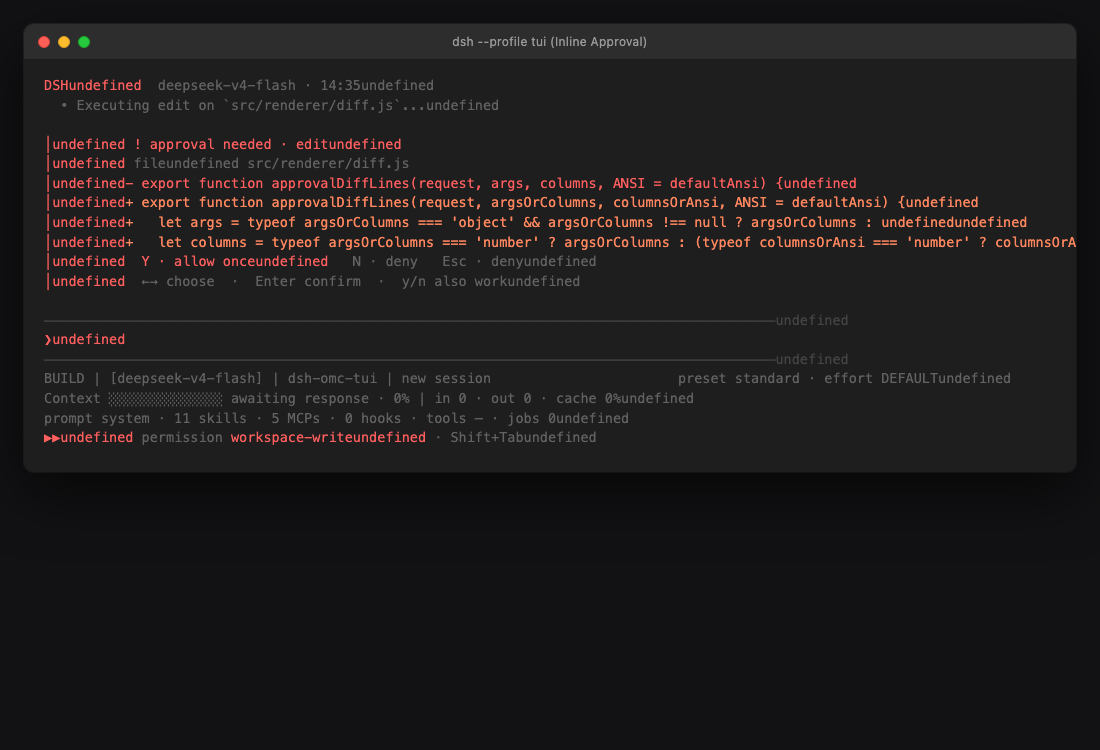
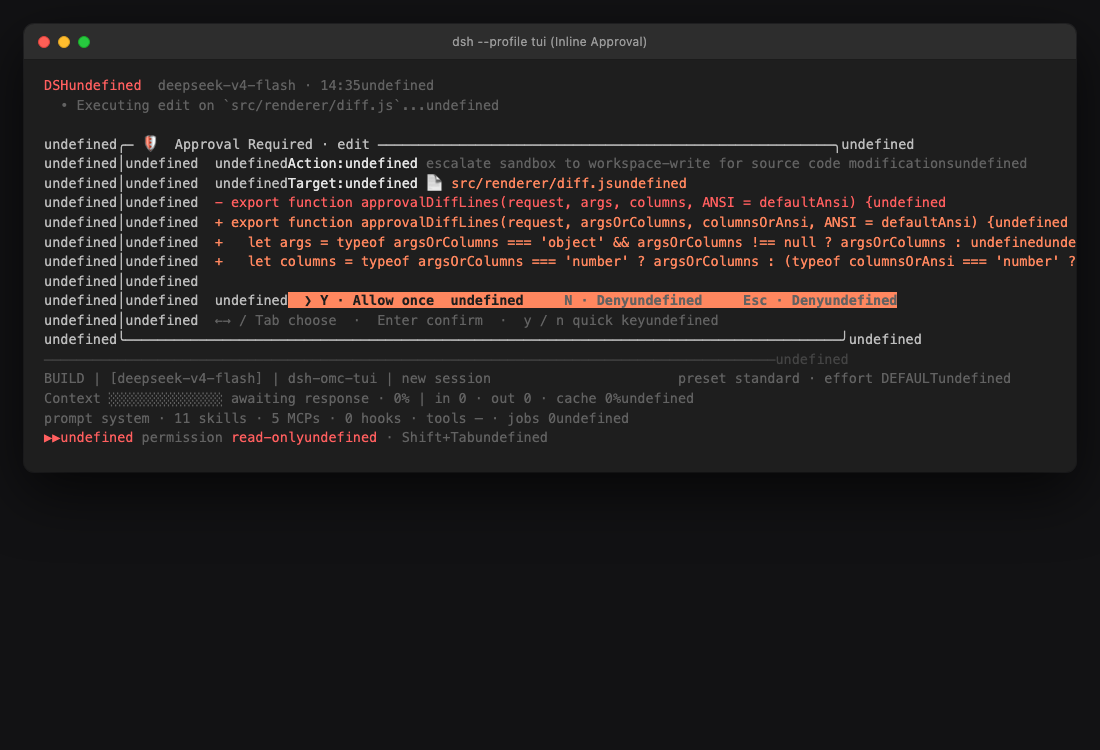
feat(approval): redesign approval card with closed 4-corner box framing, clear action badges, and Tab toggle support

diff --git a/src/panels/approval-panel.js b/src/panels/approval-panel.js
@@ -1,17 +1,60 @@
-import { safe, shorten } from '../renderer/ansi.js'
+import { safe, shorten, truncateWidth, widthOf } from '../renderer/ansi.js'
 import { ANSI as defaultAnsi } from '../renderer/themes.js'
 
 export function renderInlineApproval(pendingApproval, approvalChoice, approvalDiffLines, columns, ANSI = defaultAnsi) {
   if (!pendingApproval) return []
-  const request = pendingApproval.request
+  const request = pendingApproval.request || {}
   const choice = approvalChoice === 'deny' ? 'deny' : 'allow'
-  const allowMark = choice === 'allow' ? `${ANSI.blue}\x1b[7m Y · allow once \x1b[27m${ANSI.reset}` : `${ANSI.blue}  Y · allow once  ${ANSI.reset}`
-  const denyMark = choice === 'deny' ? `${ANSI.coral}\x1b[7m N · deny \x1b[27m${ANSI.reset}` : `${ANSI.coral}  N · deny  ${ANSI.reset}`
-  return [
-    `${ANSI.coral}│ ! approval needed · ${safe(request.toolName)}${ANSI.reset}`,
-    request.reason ? `${ANSI.coral}│ ${shorten(request.reason, columns - 4)}${ANSI.reset}` : '',
-    ...(typeof approvalDiffLines === 'function' ? approvalDiffLines(request, columns) : (Array.isArray(approvalDiffLines) ? approvalDiffLines : [])),
-    `${allowMark}${denyMark}${ANSI.dim}  Esc · deny${ANSI.reset}`,
-    `${ANSI.muted}←→ choose  ·  Enter confirm  ·  y/n also work${ANSI.reset}`
-  ].filter((line) => line !== '')
+
+  const boxWidth = Math.max(40, Math.min(columns, 96))
+  const innerWidth = boxWidth - 4
+  const border = ANSI.amber || ANSI.coral || '\x1b[38;5;214m'
+  const reset = ANSI.reset
+
+  const lines = []
+
+  // 1. Header with shield icon
+  const toolName = request.toolName || 'action'
+  const headerTitle = ` 🛡  Approval Required · ${toolName} `
+  const topPad = Math.max(0, boxWidth - 2 - widthOf(headerTitle) - 2)
+  lines.push(`${border}╭─${headerTitle}${'─'.repeat(topPad)}╮${reset}`)
+
+  // 2. Reason / Description
+  if (request.reason) {
+    const reasonText = request.reason.trim()
+    lines.push(`${border}│${reset}  ${ANSI.bold}${ANSI.ink}Action:${reset} ${ANSI.dim}${shorten(reasonText, innerWidth - 9)}${reset}`)
+  }
+
+  // 3. Diff payload / Target info
+  const diffItems = typeof approvalDiffLines === 'function'
+    ? approvalDiffLines(request, innerWidth)
+    : (Array.isArray(approvalDiffLines) ? approvalDiffLines : [])
+
+  if (diffItems.length > 0) {
+    for (const item of diffItems) {
+      lines.push(`${border}│${reset}  ${item}`)
+    }
+  }
+
+  // Blank spacer
+  lines.push(`${border}│${reset}`)
+
+  // 4. Interactive Action Chips
+  const allowBtn = choice === 'allow'
+    ? `${ANSI.amber}\x1b[7m  ❯ Y · Allow once  \x1b[27m${reset}`
+    : `${ANSI.dim}    Y · Allow once  ${reset}`
+
+  const denyBtn = choice === 'deny'
+    ? `${ANSI.coral}\x1b[7m  ❯ N · Deny  \x1b[27m${reset}`
+    : `${ANSI.dim}    N · Deny  ${reset}`
+
+  const escHint = `${ANSI.muted}Esc · Deny${reset}`
+
+  lines.push(`${border}│${reset}  ${allowBtn}   ${denyBtn}   ${escHint}`)
+  lines.push(`${border}│${reset}  ${ANSI.muted}←→ / Tab choose  ·  Enter confirm  ·  y / n quick key${reset}`)
+
+  // 5. Closed bottom border
+  lines.push(`${border}╰${'─'.repeat(boxWidth - 2)}╯${reset}`)
+
+  return lines
 }

diff --git a/src/renderer/diff.js b/src/renderer/diff.js
@@ -47,22 +47,27 @@ export function approvalDiffLines(request, argsOrColumns, columnsOrAnsi, ANSI = 
   const command = args.command
   const lines = []
   if (command) {
-    lines.push(`${ansiTheme.coral}│${ansiTheme.reset} ${ansiTheme.ink}$${ansiTheme.reset} ${safe(truncateWidth(command, Math.max(20, columns - 8)))}`)
+    lines.push(`${ansiTheme.bold}${ansiTheme.ink}Command:${ansiTheme.reset} ${ansiTheme.amber || ansiTheme.accent}$ ${safe(truncateWidth(command, Math.max(20, columns - 12)))}${ansiTheme.reset}`)
     return lines
   }
   const file = args.file_path ?? args.path
-  if (file) lines.push(`${ansiTheme.coral}│${ansiTheme.reset} ${ansiTheme.dim}file${ansiTheme.reset} ${safe(truncateWidth(file, Math.max(20, columns - 12)))}`)
+  if (file) {
+    lines.push(`${ansiTheme.bold}${ansiTheme.ink}Target:${ansiTheme.reset} 📄 ${ansiTheme.accent || ansiTheme.blue}${safe(truncateWidth(file, Math.max(20, columns - 12)))}${ansiTheme.reset}`)
+  }
   const oldLines = String(args.old_str ?? '').split('\n').slice(0, 6)
   const newLines = String(args.new_str ?? '').split('\n').slice(0, 6)
-  const count = Math.max(oldLines.length, newLines.length)
-  for (let i = 0; i < count; i++) {
-    const oldLine = oldLines[i]
-    const newLine = newLines[i]
-    if (oldLine !== undefined && oldLine === newLine) {
-      lines.push(`${ansiTheme.coral}│${ansiTheme.reset}  ${ansiTheme.muted}${truncateWidth(safe(oldLine), Math.max(20, columns - 8))}${ansiTheme.reset}`)
-    } else {
-      if (oldLine !== undefined) lines.push(`${ansiTheme.coral}│${ansiTheme.reset}${ansiTheme.coral}- ${truncateWidth(safe(oldLine), Math.max(20, columns - 8))}${ansiTheme.reset}`)
-      if (newLine !== undefined) lines.push(`${ansiTheme.coral}│${ansiTheme.reset}${ansiTheme.blue}+ ${truncateWidth(safe(newLine), Math.max(20, columns - 8))}${ansiTheme.reset}`)
+  const hasDiff = (args.old_str !== undefined && args.old_str !== '') || (args.new_str !== undefined && args.new_str !== '')
+  if (hasDiff) {
+    const count = Math.max(oldLines.length, newLines.length)
+    for (let i = 0; i < count; i++) {
+      const oldLine = oldLines[i]
+      const newLine = newLines[i]
+      if (oldLine !== undefined && oldLine === newLine) {
+        lines.push(`  ${ansiTheme.muted}${truncateWidth(safe(oldLine), Math.max(20, columns - 6))}${ansiTheme.reset}`)
+      } else {
+        if (oldLine !== undefined) lines.push(`${ansiTheme.coral}- ${truncateWidth(safe(oldLine), Math.max(20, columns - 6))}${ansiTheme.reset}`)
+        if (newLine !== undefined) lines.push(`${ansiTheme.blue || ansiTheme.ok}+ ${truncateWidth(safe(newLine), Math.max(20, columns - 6))}${ansiTheme.reset}`)
+      }
     }
   }
   return lines

diff --git a/src/index.js b/src/index.js
@@ -2715,8 +2715,8 @@ class TuiApp {
         this.pendingApproval.settle(this.approvalChoice === 'allow' ? 'allowed-once' : 'rejected')
         return
       }
-      if (value === '\x1b[C') { this.approvalChoice = 'deny'; this.scheduleRender(); return }
-      if (value === '\x1b[D') { this.approvalChoice = 'allow'; this.scheduleRender(); return }
+      if (value === '\x1b[C' || value === '\t') { this.approvalChoice = 'deny'; this.scheduleRender(); return }
+      if (value === '\x1b[D' || value === '\x1b[Z') { this.approvalChoice = 'allow'; this.scheduleRender(); return }
       if (value === '\x1b' ) { this.pendingApproval.settle('rejected'); return }
       const answer = value.trim().toLowerCase()
       if (answer === 'y') this.pendingApproval.settle('allowed-once')
@@ -3620,10 +3620,13 @@ class TuiApp {
       }
     }
 
-    lines.push(`${this.ruleStyle()}${'─'.repeat(columns)}${ANSI.reset}`)
-    this.inputTopInFooter = lines.length
-    lines.push(...inputLines)
-    lines.push(...inlineRows)
+    if (inlineRows.length > 0) {
+      lines.push(...inlineRows)
+    } else {
+      lines.push(`${this.ruleStyle()}${'─'.repeat(columns)}${ANSI.reset}`)
+      this.inputTopInFooter = lines.length
+      lines.push(...inputLines)
+    }
     lines.push(`${this.ruleStyle()}${'─'.repeat(columns)}${ANSI.reset}`)
     lines.push(...statusRows)
 

diff --git a/PRODUCT_SHOWCASE.md b/PRODUCT_SHOWCASE.md
@@ -9,7 +9,7 @@
 <div align="center">
 
 ### 1. 启动与状态栏 (Welcome & 4-Row Statusline)
-![DSH OMC 真实终端启动与运行界面](assets/welcome-screen.png)
+![DSH OMC 真实终端启动与运行界面](https://raw.githubusercontent.com/ipromise2021/dsh-omc-tui/main/assets/welcome.png)
 *图 1：实际运行终端截图 · 欢迎卡片、4 行 Statusline 指示器与护眼调色板*
 
 ---
@@ -33,7 +33,7 @@
 ---
 
 ### 5. `/status` 全局看板 (System Diagnostic Dashboard)
-![/status 诊断看板](https://raw.githubusercontent.com/ipromise2021/dsh-omc-tui/main/assets/status-pane-output.png)
+![/status 诊断看板](https://raw.githubusercontent.com/ipromise2021/dsh-omc-tui/main/assets/status.png)
 *图 5：`/status` 全局体检看板 · 模型配置、Token 消耗分布、扩展组件与会话健康度综合分析*
 
 </div>

diff --git a/README.md b/README.md
@@ -20,7 +20,7 @@
 
 <div align="center">
 
-![DSH OMC 终端运行主界面](assets/welcome-screen.png)
+![DSH OMC 终端运行主界面](assets/welcome.png)
 *DSH OMC 终端启动截图：欢迎卡片、4 行 Statusline 状态指示器与护眼调色板*
 
 </div>
